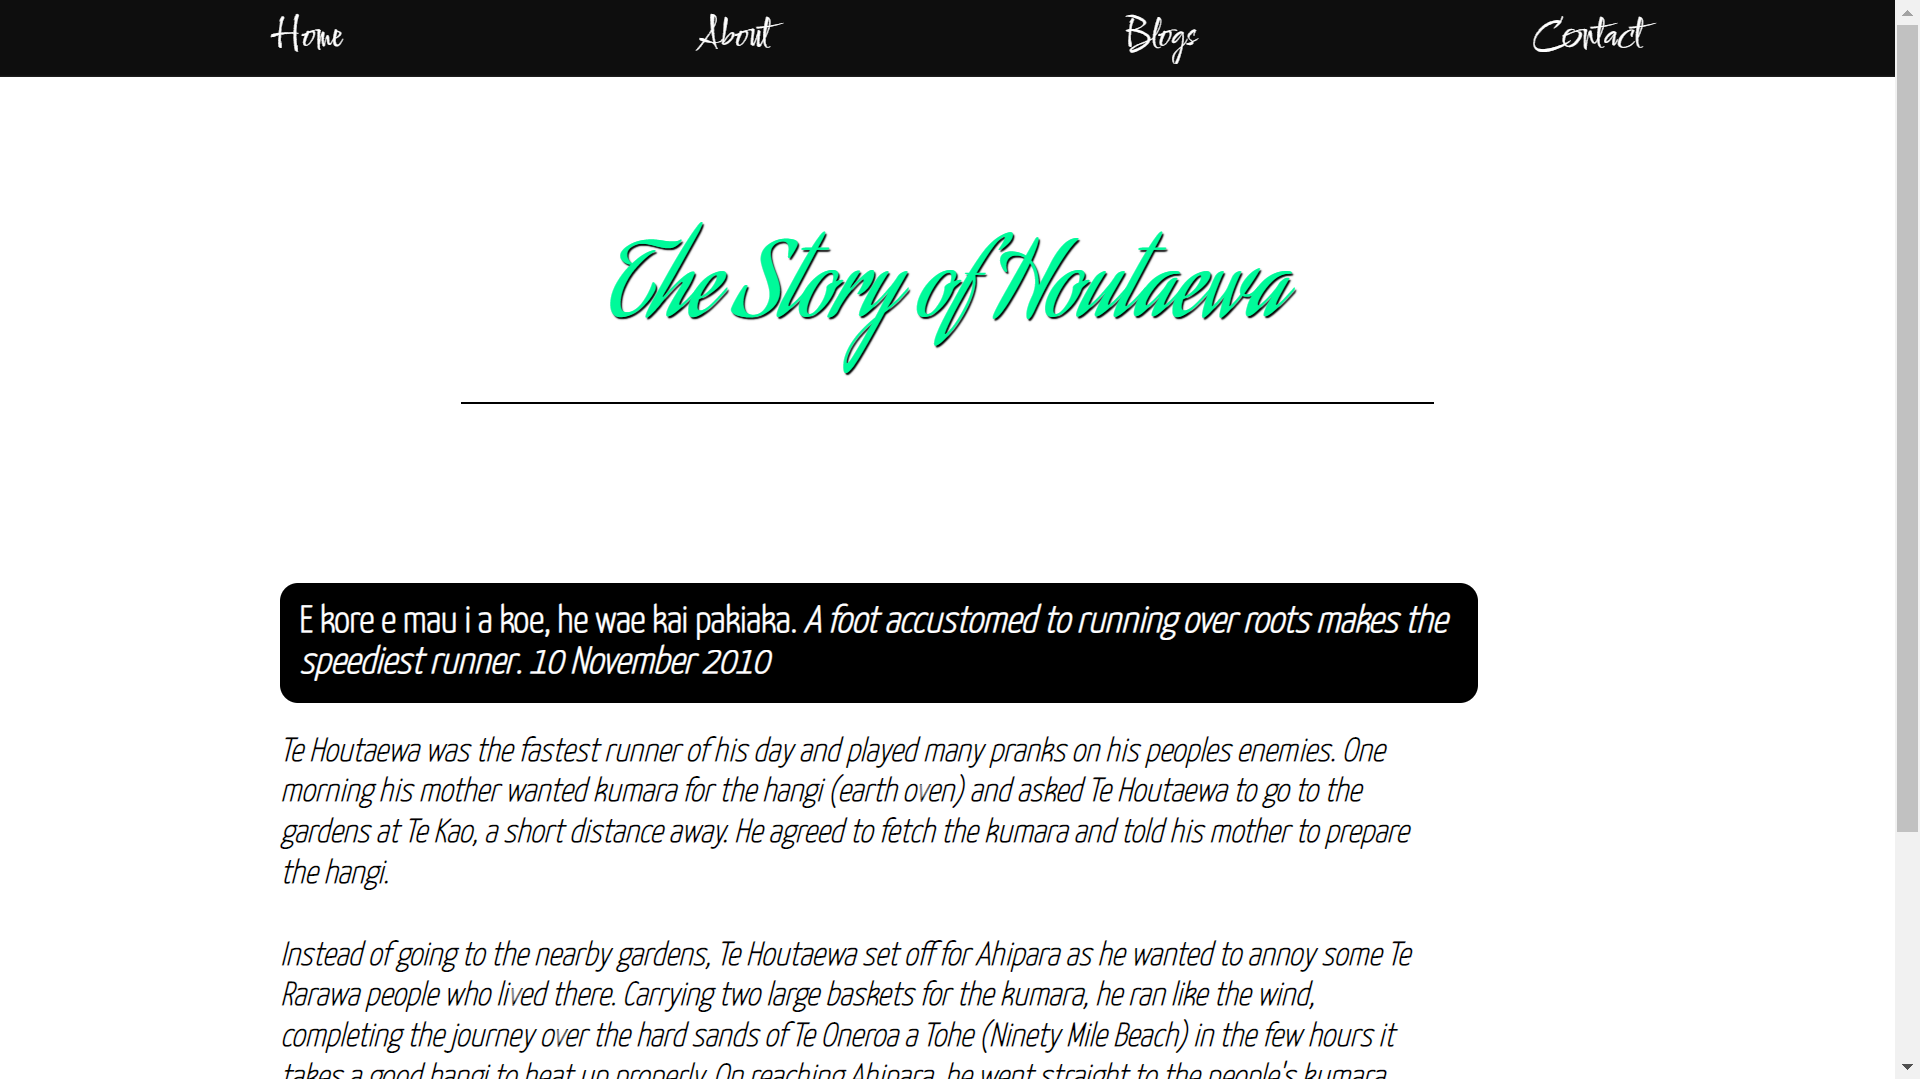
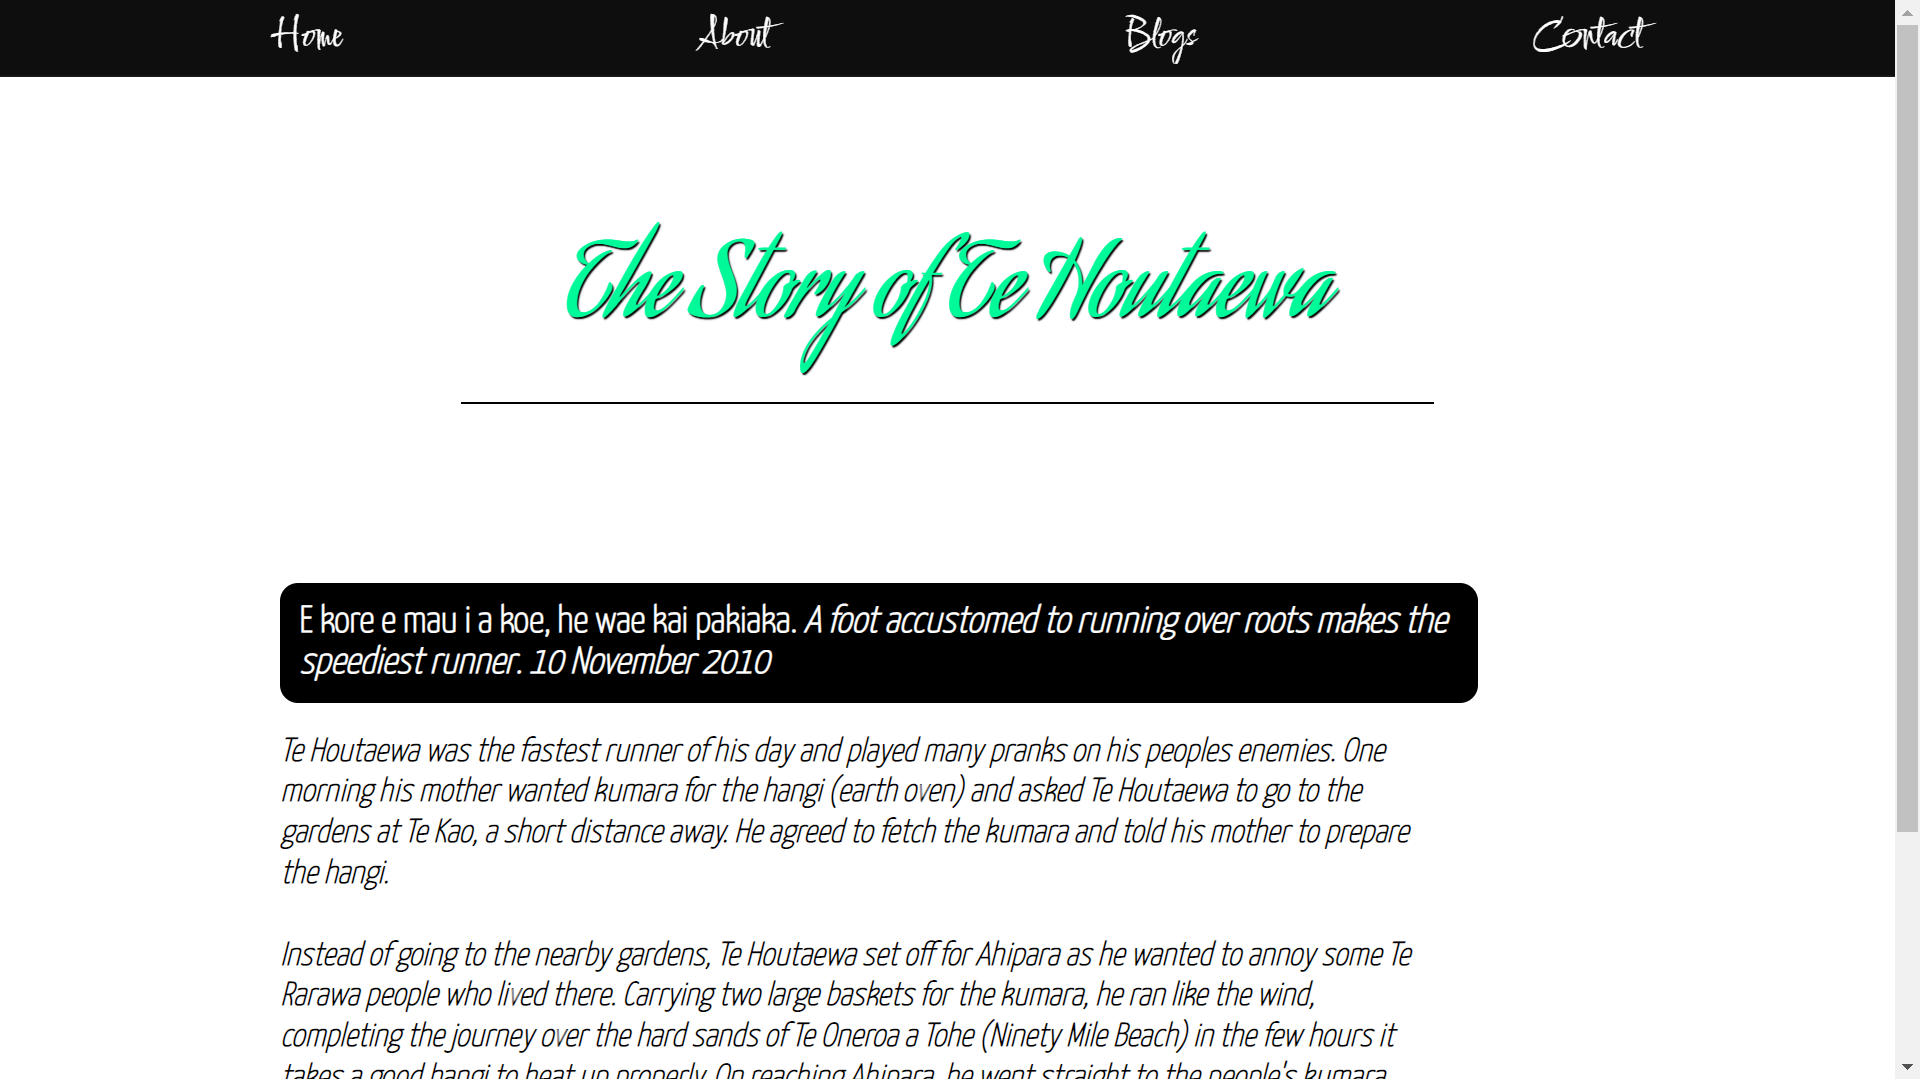
Update blog post link image to correct img

Changed region(s): [[0.2812, 0.2141, 0.7188, 0.3364]]

diff --git a/blog/te-houtaewa-template.html b/blog/te-houtaewa-template.html
@@ -36,7 +36,7 @@
   <div class="blog-wrapper">
     <div class="blog-post-wrapper">
       <div class="blog-post-title-wrapper">
-        <h2>The Story of Houtaewa</h2>
+        <h2>The Story of Te Houtaewa</h2>
         <hr>
       </div>
 
